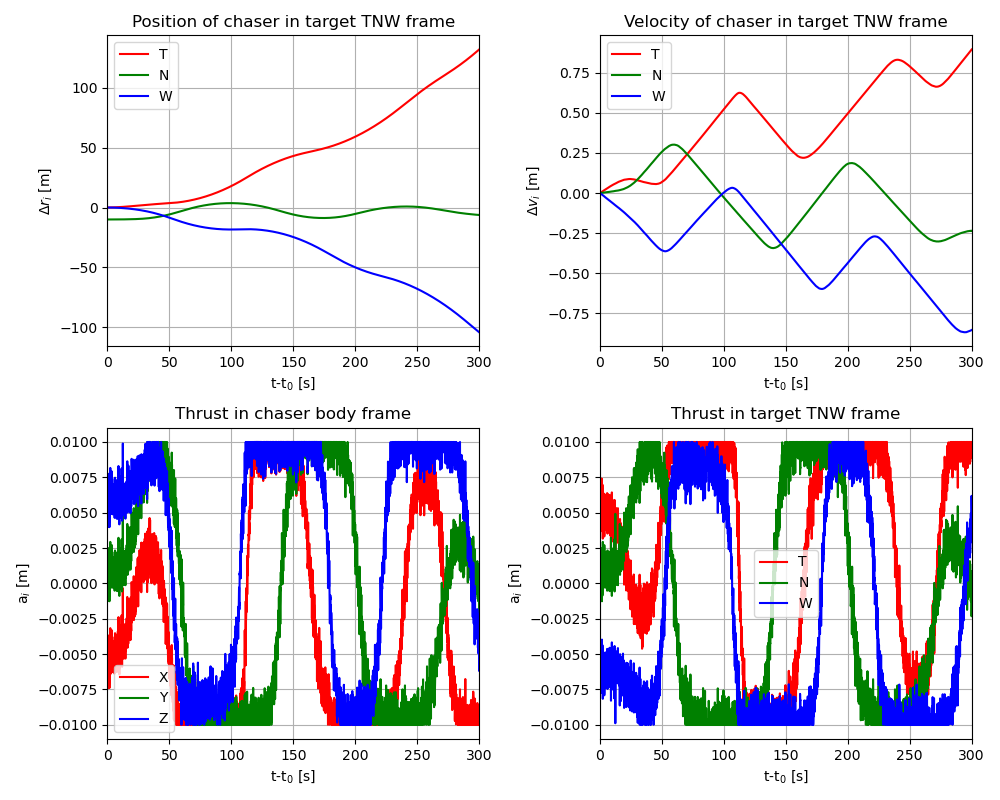
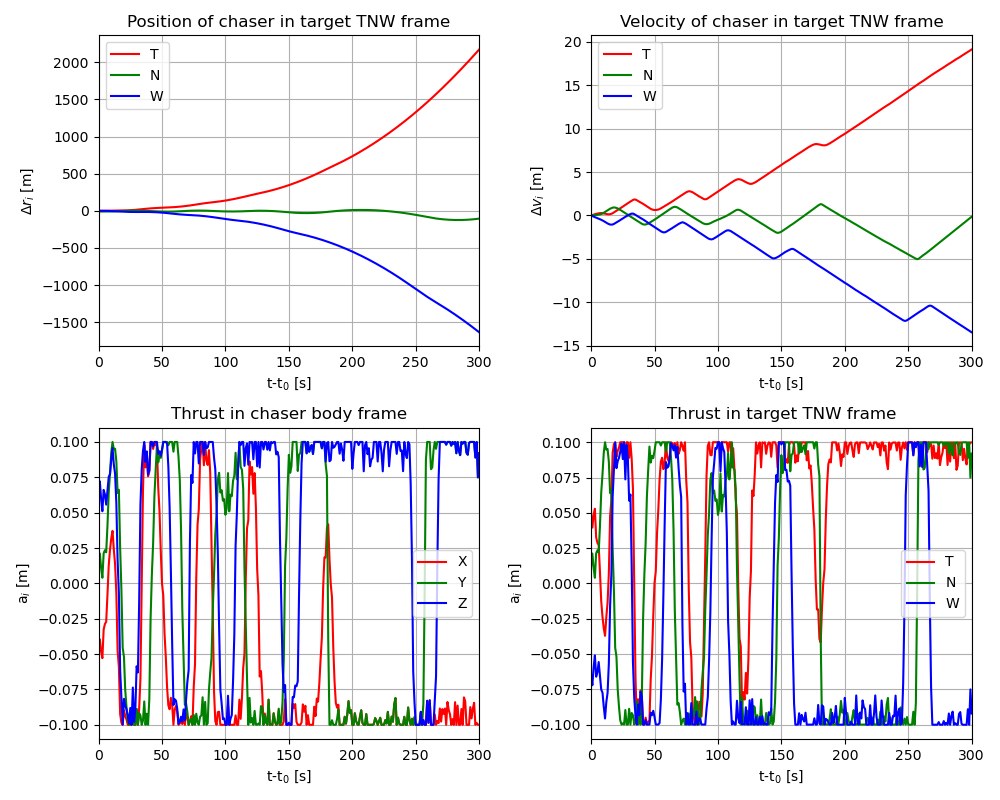
Postprocessing updates and bigger timestep, but I think rewards are fucked up somewhere

diff --git a/post_process_utils.py b/post_process_utils.py
@@ -47,7 +47,6 @@ def plot_velocity_2d(axis, inertial_states, dep_vars):
 
     return axis
 
-
 def plot_thrust_body_frame(axis, dep_vars):
     time = dep_vars[:,0]
     n_times = len(time)
@@ -88,3 +87,43 @@ def plot_thrust_TNW_frame(axis, dep_vars):
     axis.grid()
     axis.legend()
     return axis
+
+
+def plot_trajectory_3d(axis, inertial_states, dep_vars):
+    target_states = inertial_states[:,1:7]
+    chaser_states = inertial_states[:,7:13]
+    delta_state_inertial = chaser_states-target_states
+    n_times = target_states.shape[0]
+    print(n_times)
+
+    tnw_to_inertial_array = dep_vars[:, 1:10]
+    tnw_to_inertial_matrix = tnw_to_inertial_array.reshape(n_times, 3,3)
+    delta_pos_tnw = np.array([np.matmul(np.transpose(tnw_to_inertial_matrix[i, :, :]), delta_state_inertial[i,0:3]) for i in range(n_times)])
+
+    axis.plot3D(delta_pos_tnw[:,0], delta_pos_tnw[:,1], delta_pos_tnw[:,2], 'blue')
+    axis.set_title("Position of chaser in target TNW frame")
+    axis.set_xlabel("T [x]")
+    axis.set_ylabel("N [m]")
+    axis.set_zlabel("W [m]")
+    axis.set_xlim(-200,200)
+    axis.set_ylim(-200,200)
+    axis.set_zlim(-200,200)
+    axis.grid()
+
+    return axis
+
+
+def plot_training_performance(ax, reward):
+    episodes = np.arange(0,len(reward))
+
+    #print(episodes, reward)
+    #print(episodes, moving_avg_reward)
+
+    ax.clear()
+    ax.plot(episodes, reward, label = "Episode reward")
+    ax.set_xlabel("Episode [-]")
+    ax.set_ylabel("Reward value [-]")
+    ax.set_xlim(0,len(episodes))
+    ax.legend()
+
+    return ax

diff --git a/main2.py b/main2.py
@@ -1,6 +1,7 @@
 # Module imports
 from sim_utils import *
 from TD3_agent import *
+from post_process_utils import *
 
 # Tudat imports
 from tudatpy.kernel import numerical_simulation
@@ -8,6 +9,7 @@ from tudatpy.data import save2txt
 from tudatpy.util import result2array
 
 # General imports
+import matplotlib.pyplot as plt
 import numpy as np
 import os
 import time
@@ -40,6 +42,9 @@ if __name__ == '__main__':
     # Setting seed
     torch.manual_seed(random_seed)
     np.random.seed(random_seed)   
+
+    # Performance plot init
+    fig, ((ax1))= plt.subplots(1,1, figsize=(8,5))
 
 
     # Creating agent
@@ -95,4 +100,8 @@ if __name__ == '__main__':
 
         agent.episode_reward = 0
         
-
+        #print(episode)
+        ax1 = plot_training_performance(ax1, total_reward_hist)
+        plt.tight_layout()
+        plt.draw()
+        #fig.pause(1)

diff --git a/analyze_model.py b/analyze_model.py
@@ -59,6 +59,7 @@ dep_vars = dynamics_simulator.dependent_variable_history
 states_array = result2array(states)
 dep_vars_array = result2array(dep_vars)
 
+
 fig, ((ax1, ax2), (ax3, ax4)) = plt.subplots(2,2, figsize=(10,8))
 ax1 = plot_trajectory_2d(ax1, states_array, dep_vars_array)
 ax2 = plot_velocity_2d(ax2, states_array, dep_vars_array)
@@ -66,3 +67,10 @@ ax3 = plot_thrust_body_frame(ax3, dep_vars_array)
 ax4 = plot_thrust_TNW_frame(ax4, dep_vars_array)
 fig.tight_layout()
 fig.savefig("./plots/model_analysis.png")
+
+
+fig2 = plt.figure()
+ax_3d = fig2.add_subplot(projection='3d')
+ax_3d = plot_trajectory_3d(ax_3d, states_array, dep_vars_array)
+fig2.tight_layout()
+fig2.savefig("./plots/trajectory_3D.png")
